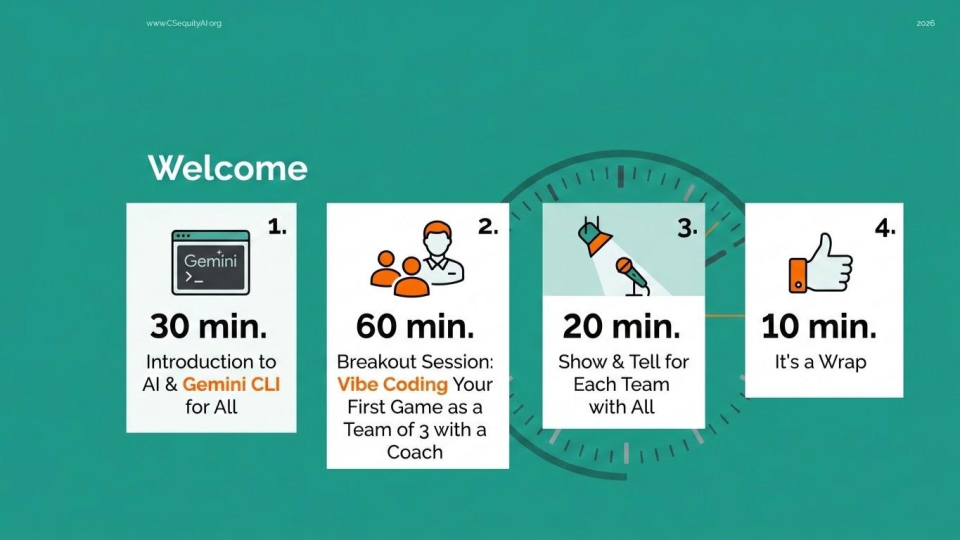
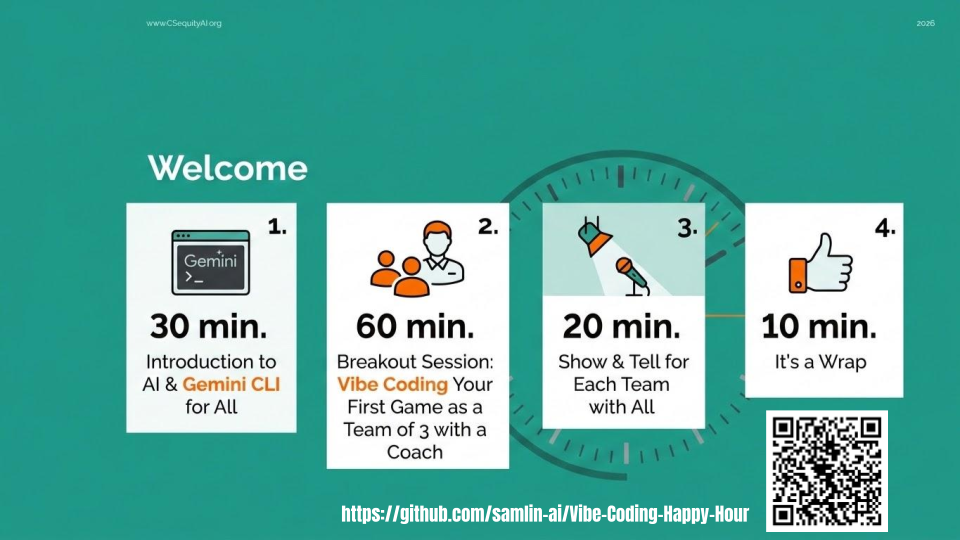
add slides

Changed region(s): [[0.3438, 0.7407, 0.9375, 1.0]]

diff --git a/README.md b/README.md
@@ -1,11 +1,9 @@
 # Vibe Coding Happy Hour
-This is a course to grow K12 students to become AI-native builders, starting from vibe coding their first game. 
+This is a course to grow K12 students to become AI-native builders, starting from vibe coding their first game.
 
 **Brought to you by: [CSequityAI.org](https://www.csequityai.org/)**
 
 <img src="./res/csequityai.png" width="120">
-
----
 
 ## Goals
 
@@ -13,8 +11,6 @@ This is a course to grow K12 students to become AI-native builders, starting fro
 2. Build hands-on experience with not only vibe coding but also AI-augmented understanding, to be ready for the brave new world.
 3. Practice technical collaboration skills as a team of 3–5.
 4. Practice technical communication skills through Show & Tell.
-
----
 
 ## Examples
 
@@ -32,15 +28,13 @@ Check out these games to see what kids will build: https://samlin-ai.github.io/v
 3. **20 min — Show & Tell** for each team with all.
 4. **10 min — It's a Wrap**
 
----
+**[Slides](https://docs.google.com/presentation/d/1iEOEp5ueOGOGqUgtvu-DLNjHJp_gqi1zeQ7scHNBYZ0/edit?usp=sharing)**
 
 ## Why Use the CLI for K12?
 
 1. **Reduced friction**: No more manual copy-pasting. If they want a change, they run the command again or use a "fix" command.
 2. **Tech literacy**: Students learn basic file system navigation (`cd`, `ls`, `mkdir`) while doing something fun.
 3. **Automation**: They see how AI can be used as a tool inside other programs, rather than just a chatbot.
-
----
 
 ## Development Environment
 
@@ -56,8 +50,6 @@ Before the class, set up the development environment according to [dev-env-setup
 ### Vibe Coding on Pixel Tablet and Google Cloud Shell Editor
 
 <img src="./res/vibeCodingOnPixelTablet.png" width="640">
-
----
 
 ## Coaching Tips for Success
 
